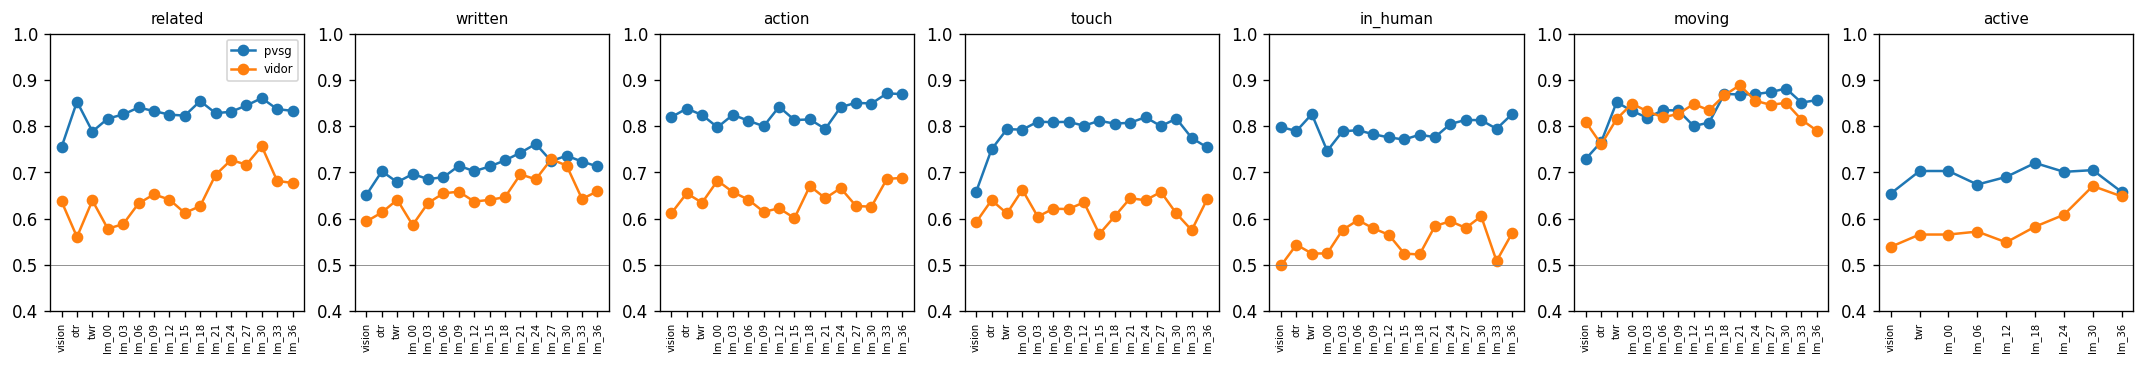
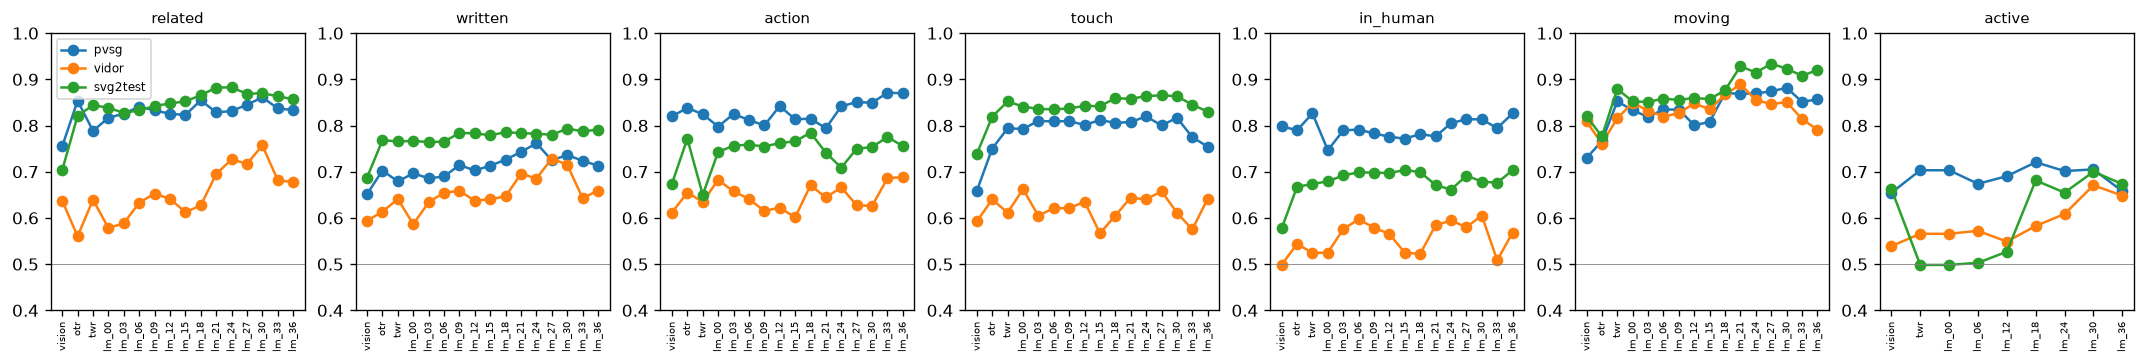
TRASER bench: interp results (interp)

diff --git a/results/traser_bench/interp/REPORT.md b/results/traser_bench/interp/REPORT.md
@@ -10,6 +10,8 @@ The language model alone (exported weights) on the saved input sequences, compar
 |---|---|---|---|
 | pvsg | 0018_4748191834 | 300/300 | 97% |
 | pvsg | 0046_11919433184 | 300/300 | 98% |
+| svg2test | 1125_Cbv34yDZ8gc | 85/300 | 96% |
+| svg2test | 1190_UmpN6eLjN8w | 62/300 | 98% |
 | vidor | 10024067406 | 189/189 | 98% |
 | vidor | 11244289523 | 300/300 | 97% |
 
@@ -49,6 +51,22 @@ Controls for *related*: shuffled labels 0.50; geometry only (on screen together,
 
 **Known but not written?** At `lm_30` (best stage for *related*), 37% of the 428 human pairs TRASER did *not* write score above 90% of unrelated pairs, vs 46% of the 336 pairs it did write.
 
+### svg2test (40 videos)
+
+| question | n (positives) | vision | otr | twr | lm_00 | lm_03 | lm_06 | lm_09 | lm_12 | lm_15 | lm_18 | lm_21 | lm_24 | lm_27 | lm_30 | lm_33 | lm_36 |
+|---|---|---|---|---|---|---|---|---|---|---|---|---|---|---|---|---|---|
+| pair: do humans relate subject → object | 11104 (1058) | 0.70 | 0.82 | 0.84 | 0.84 | 0.83 | 0.83 | 0.84 | 0.85 | 0.85 | 0.87 | 0.88 | 0.88 | 0.87 | 0.87 | 0.86 | 0.86 |
+| pair: did TRASER write the pair | 11104 (878) | 0.69 | 0.77 | 0.77 | 0.77 | 0.76 | 0.77 | 0.78 | 0.78 | 0.78 | 0.79 | 0.78 | 0.78 | 0.78 | 0.79 | 0.79 | 0.79 |
+| pair (related): action word vs only position words | 1058 (303) | 0.67 | 0.77 | 0.65 | 0.74 | 0.76 | 0.76 | 0.75 | 0.76 | 0.77 | 0.78 | 0.74 | 0.71 | 0.75 | 0.75 | 0.78 | 0.76 |
+| pair: do the masks touch | 10476 (3257) | 0.74 | 0.82 | 0.85 | 0.84 | 0.84 | 0.83 | 0.84 | 0.84 | 0.84 | 0.86 | 0.86 | 0.86 | 0.87 | 0.86 | 0.84 | 0.83 |
+| object: in any human relation | 1127 (728) | 0.58 | 0.67 | 0.67 | 0.68 | 0.69 | 0.70 | 0.70 | 0.70 | 0.70 | 0.70 | 0.67 | 0.66 | 0.69 | 0.68 | 0.68 | 0.70 |
+| object: moving fast vs slow | 712 (356) | 0.82 | 0.78 | 0.88 | 0.85 | 0.85 | 0.86 | 0.86 | 0.86 | 0.86 | 0.88 | 0.93 | 0.91 | 0.93 | 0.92 | 0.91 | 0.92 |
+| window: is the relation happening in this 4-second window | 3551 (3486) | 0.66 | · | 0.50 | 0.50 | · | 0.50 | · | 0.53 | · | 0.68 | · | 0.65 | · | 0.70 | · | 0.67 |
+
+Controls for *related*: shuffled labels 0.50; geometry only (on screen together, gap, touching, sizes, motion, tokens, person/animal) 0.88; geometry + `lm_24` 0.90.
+
+**Known but not written?** At `lm_24` (best stage for *related*), 58% of the 653 human pairs TRASER did *not* write score above 90% of unrelated pairs, vs 69% of the 405 pairs it did write.
+
 ![probe AUC by stage](figs/probes.png)
 
 
@@ -60,12 +78,14 @@ After TRASER's last relation we start one more, with the subject of a human rela
 |---|---|---|---|---|---|---|---|
 | pvsg missed | 137 | 5 (8) | 23% (3%) | 43% | 34% (5%) | 61% (21%) | **12%** (0%) |
 | pvsg written | 73 | 2 (8) | 40% (4%) | 68% | 40% (5%) | 59% (23%) | **26%** (0%) |
+| svg2test missed | 374 | 10 (12) | 57% (2%) | 74% | 40% (3%) | 66% (13%) | **10%** (0%) |
+| svg2test written | 172 | 5 (12) | 42% (6%) | 66% | 33% (2%) | 50% (8%) | **9%** (0%) |
 | vidor missed | 329 | 4 (3) | 53% (4%) | 75% | 35% (20%) | 76% (66%) | **31%** (2%) |
 | vidor written | 188 | 2 (3) | 49% (6%) | 81% | 49% (16%) | 76% (65%) | **49%** (3%) |
 
 *all three* = subject in the top 3, word in the top 5 (or a same-meaning word), object in the top 3.
 
-**Stopping.** Probability that TRASER closes its relation list, at the point where it did: pvsg mean 59%; vidor mean 70%.
+**Stopping.** Probability that TRASER closes its relation list, at the point where it did: pvsg mean 59%; svg2test mean 60%; vidor mean 70%.
 
 ![probability of stopping after each relation](figs/stop.png)
 
@@ -79,6 +99,10 @@ Change in log-probability (nats; negative = TRASER's own answer became less like
 | pvsg | OTR latents only (whole-video summary) | -0.06 | -0.11 | -0.13 | -0.10 | 582 |
 | pvsg | TWR latents only (4-second windows) | -0.01 | -0.04 | -0.15 | -0.37 | 582 |
 | pvsg | time labels reversed | -0.03 | -0.05 | -0.16 | -1.34 | 582 |
+| svg2test | all visual latents | -0.19 | -0.29 | -0.26 | -0.15 | 743 |
+| svg2test | OTR latents only (whole-video summary) | -0.04 | -0.15 | -0.09 | -0.06 | 743 |
+| svg2test | TWR latents only (4-second windows) | -0.04 | -0.04 | -0.05 | -0.07 | 743 |
+| svg2test | time labels reversed | -0.04 | -0.04 | -0.04 | -0.52 | 743 |
 | vidor | all visual latents | -0.16 | -0.46 | -0.15 | -0.31 | 792 |
 | vidor | OTR latents only (whole-video summary) | -0.07 | -0.22 | -0.05 | -0.05 | 792 |
 | vidor | TWR latents only (4-second windows) | -0.05 | -0.07 | -0.04 | -0.19 | 792 |
@@ -89,6 +113,7 @@ Change in log-probability (nats; negative = TRASER's own answer became less like
 | dataset | position words | other words | top words (change) |
 |---|---|---|---|
 | pvsg | -0.15 | -0.25 | in front of -0.11, holding -0.41, riding -0.03, on -0.16, approaching -0.32, moving away from -0.01, looking at -0.19, placing -0.29 |
+| svg2test | -0.17 | -0.52 | in front of -0.09, on -0.16, above -0.13, wearing -0.07, below -0.49, has -0.28, in -0.47, touching -0.23 |
 | vidor | -0.24 | -0.80 | in front of -0.17, approaches -0.98, near -0.35, moves away from -0.18, looking at -0.99, holding -0.79, on -0.43, behind -0.62 |
 
 **Removing one object.** Mean change for relations that involve the removed object vs relations that do not (if the model reads each object from its own latents, only the first should drop):
@@ -96,6 +121,7 @@ Change in log-probability (nats; negative = TRASER's own answer became less like
 | dataset | involving it: object number | involving it: word | not involving it: object number | not involving it: word |
 |---|---|---|---|---|
 | pvsg | -0.22 | -0.10 | -0.00 | -0.00 |
+| svg2test | -0.17 | -0.10 | -0.00 | 0.00 |
 | vidor | -0.13 | -0.16 | -0.01 | -0.02 |
 
 **Where do the times come from?** The time labels `<a - b sec>` are reversed (the first window gets the last label, ...) while the video latents stay. We compare TRASER's times with the same times moved to where the reversed labels would put them. If times are read from the labels, the moved times become the more likely ones.
@@ -103,6 +129,7 @@ Change in log-probability (nats; negative = TRASER's own answer became less like
 | dataset | relations | clean labels: original times preferred | reversed labels: moved times preferred | mean preference for moved times (clean → reversed, nats) |
 |---|---|---|---|---|
 | pvsg | 576 | 87% | 30% | -3.08 → -0.98 |
+| svg2test | 736 | 86% | 36% | -1.12 → -0.24 |
 | vidor | 740 | 92% | 30% | -3.01 → -0.92 |
 
 **Windows of a relation.** Removing the TWR latents of both objects in the windows where the relation happens, vs in the same number of other windows of the same two objects:
@@ -110,6 +137,7 @@ Change in log-probability (nats; negative = TRASER's own answer became less like
 | dataset | tests | times: own windows | times: other windows | word: own windows | word: other windows |
 |---|---|---|---|---|---|
 | pvsg | 34 | -0.65 | -0.03 | -0.05 | 0.00 |
+| svg2test | 10 | -0.54 | 0.24 | 0.00 | 0.08 |
 | vidor | 58 | -0.76 | 0.01 | -0.07 | -0.05 |
 
 ## 4. Where is the object decided? (activation patching)
@@ -122,6 +150,13 @@ One object of a relation TRASER wrote is removed (its latents set to zero), whic
 |---|---|---|---|---|---|---|---|---|---|---|
 | at its latents | 1.00 | 1.01 | 1.00 | 0.99 | 0.75 | 0.28 | 0.01 | 0.01 | 0.00 | 0.00 |
 | at the writing position | -0.00 | 0.00 | 0.00 | 0.01 | 0.01 | 0.00 | 0.03 | 0.09 | 0.66 | 0.94 |
+
+**svg2test** (7 relations; mean drop when removed 2.68 nats)
+
+| layer | 0 | 4 | 8 | 12 | 16 | 19 | 23 | 27 | 31 | 35 |
+|---|---|---|---|---|---|---|---|---|---|---|
+| at its latents | 1.00 | 1.00 | 1.00 | 1.00 | 0.85 | 0.21 | -0.00 | 0.00 | -0.00 | 0.00 |
+| at the writing position | 0.00 | -0.00 | 0.00 | -0.00 | -0.00 | -0.00 | -0.04 | -0.01 | 0.16 | 0.29 |
 
 **vidor** (6 relations; mean drop when removed 1.25 nats)
 
@@ -153,6 +188,20 @@ Attention (averaged over heads) from the position that writes each token. Shown 
 | answer | 70% / 3.3× | 70% / 3.4× |
 | prompt | 24% / 24.1× | 16% / 15.9× |
 
+*svg2test* (6 videos)
+
+| part of the input | layer 18 | layer 35 |
+|---|---|---|
+| own window latents | 0% / 0.0× | 0% / 0.1× |
+| own window label | 0% / 0.2× | 0% / 0.2× |
+| other windows latents | 0% / 0.0× | 0% / 0.1× |
+| own otr | 0% / 0.2× | 0% / 0.1× |
+| other labels | 2% / 0.2× | 1% / 0.2× |
+| other objects | 1% / 0.0× | 2% / 0.1× |
+| object markers | 4% / 0.9× | 10% / 2.0× |
+| answer | 69% / 2.0× | 69% / 2.0× |
+| prompt | 23% / 23.1× | 17% / 16.7× |
+
 *vidor* (20 videos)
 
 | part of the input | layer 18 | layer 35 |
@@ -178,6 +227,15 @@ Attention (averaged over heads) from the position that writes each token. Shown 
 | answer | 64% / 3.0× | 77% / 3.7× |
 | prompt | 32% / 31.2× | 12% / 11.4× |
 
+*svg2test* (6 videos)
+
+| part of the input | layer 18 | layer 35 |
+|---|---|---|
+| named object block | 0% / 0.1× | 1% / 0.2× |
+| other objects | 4% / 0.1× | 10% / 0.2× |
+| answer | 66% / 1.9× | 79% / 2.3× |
+| prompt | 30% / 29.7× | 11% / 10.5× |
+
 *vidor* (20 videos)
 
 | part of the input | layer 18 | layer 35 |
@@ -198,6 +256,16 @@ Attention (averaged over heads) from the position that writes each token. Shown 
 | labels and markers | 3% / 0.2× | 12% / 0.7× |
 | answer | 66% / 3.2× | 69% / 3.4× |
 | prompt | 30% / 30.0× | 16% / 15.9× |
+
+*svg2test* (6 videos)
+
+| part of the input | layer 18 | layer 35 |
+|---|---|---|
+| subject and object | 0% / 0.0× | 0% / 0.1× |
+| other objects | 1% / 0.0× | 2% / 0.1× |
+| labels and markers | 3% / 0.2× | 11% / 0.9× |
+| answer | 65% / 1.9× | 71% / 2.1× |
+| prompt | 30% / 30.4× | 15% / 14.7× |
 
 *vidor* (20 videos)
 
